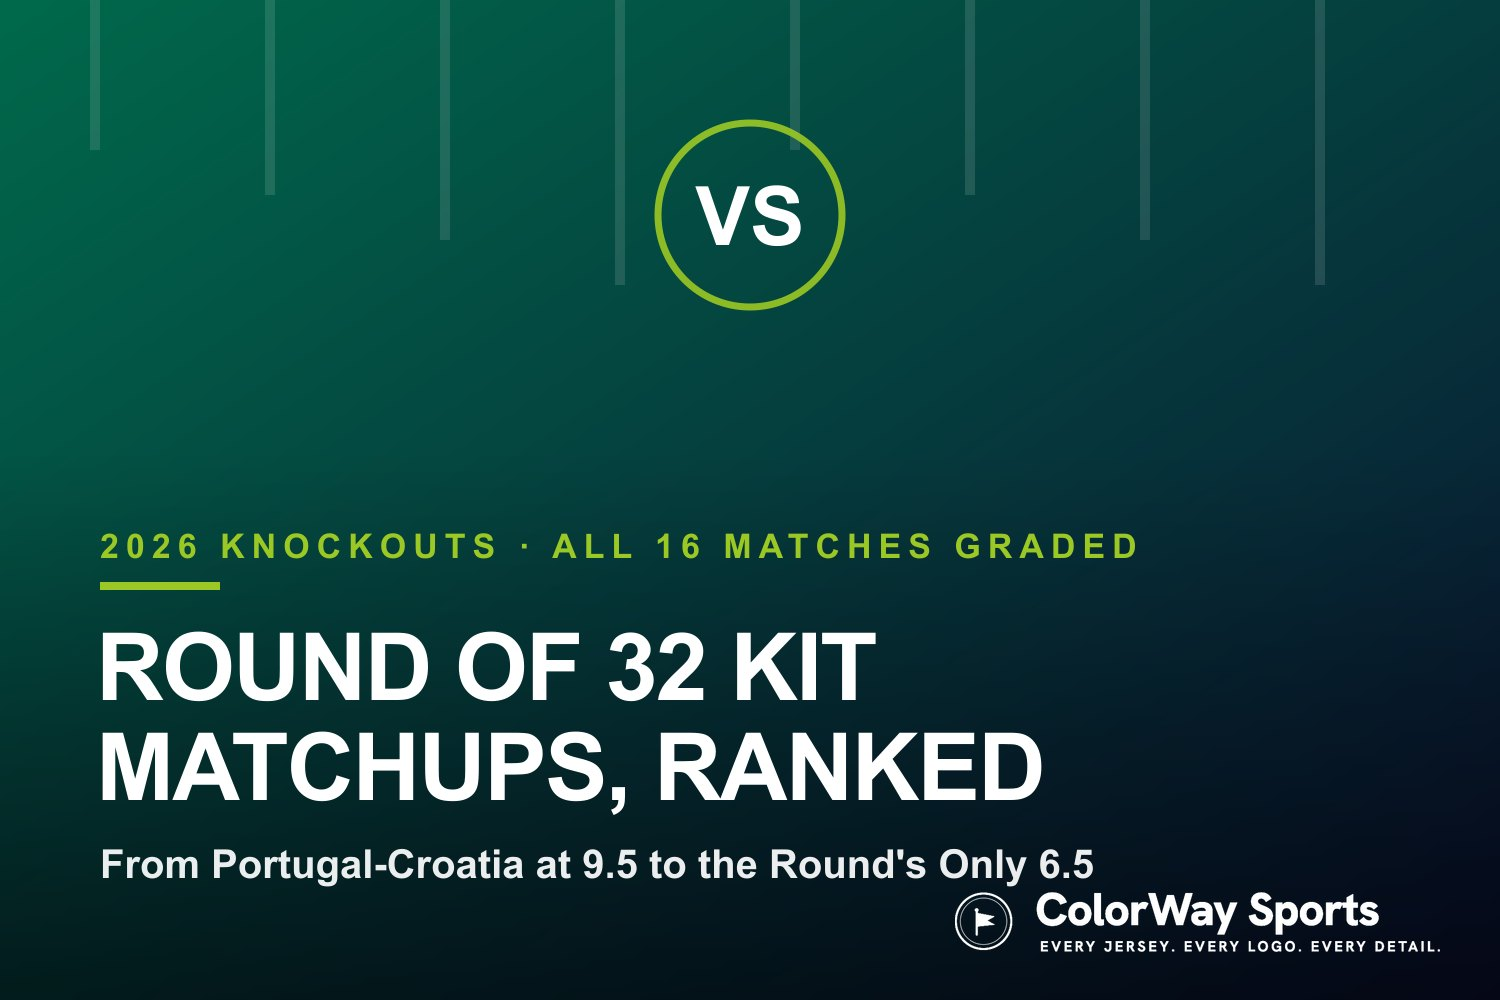
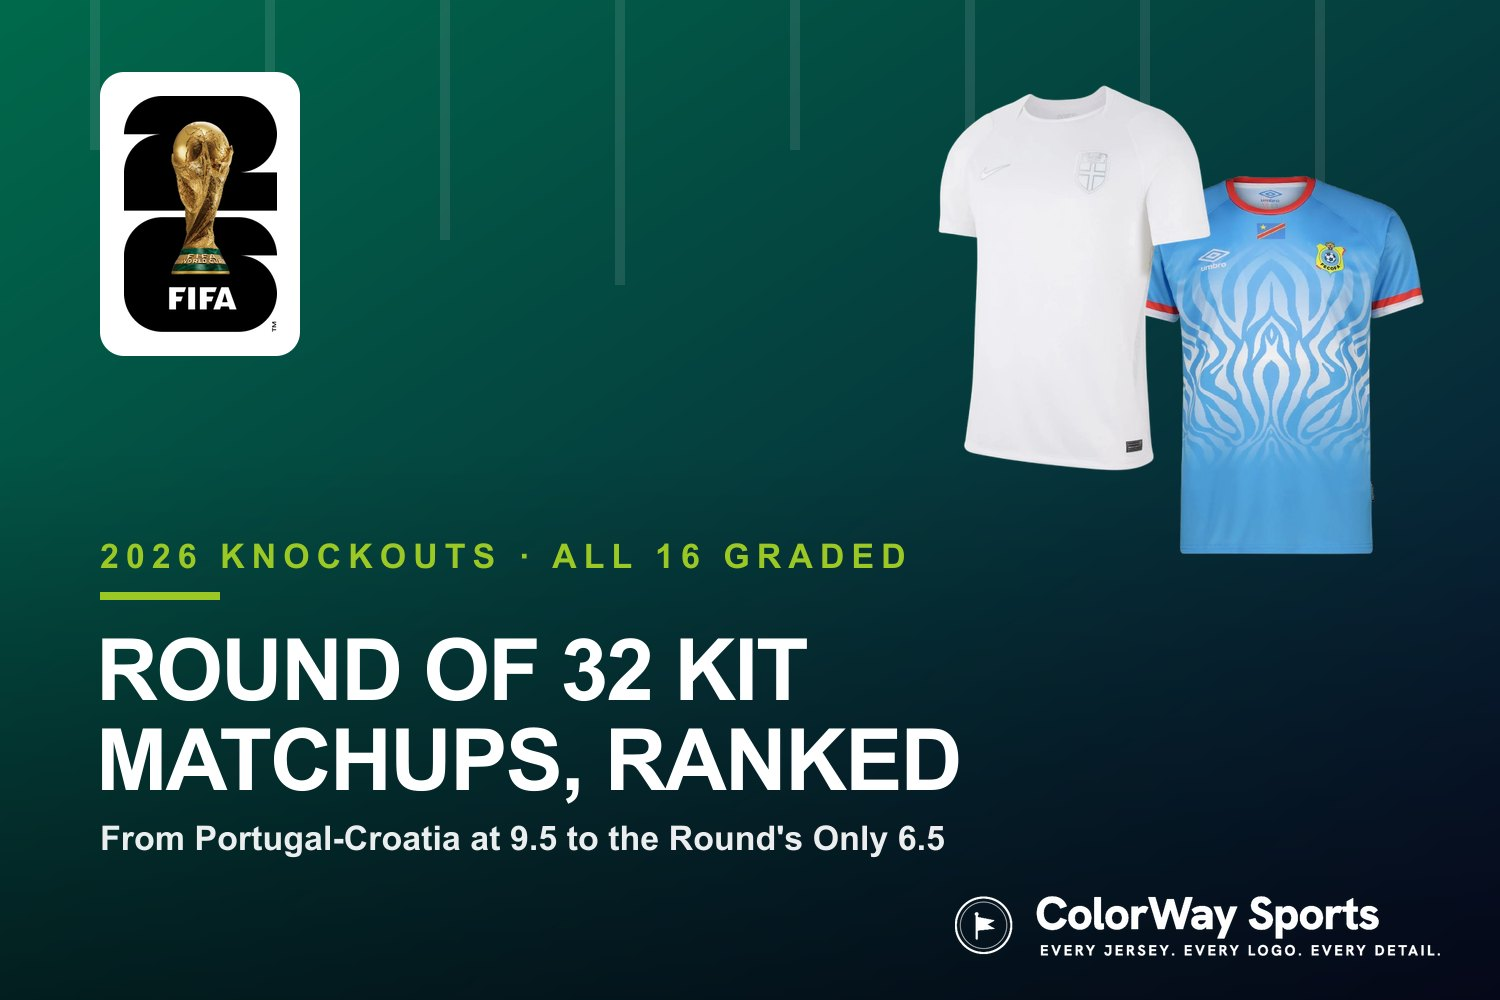
R32 ranked cover v2 (FIFA badge + transparent kits) + homepage featured band: tracker + R32 ranked only
Cover: WC26 mark in a white chip, Norway white alt + Congo DR sky blue
cutouts on the right, text block raised so the bottom breathes.
Homepage: bracket + fantasy draft cards come off the featured band
(underperforming there); both tools stay linked from the tracker and
post bodies. Tracker dek synced to R32-complete.

diff --git a/components/HomepageTrackers.tsx b/components/HomepageTrackers.tsx
@@ -18,31 +18,21 @@ const trackers: TrackerCard[] = [
     slug: "world-cup-2026-jersey-tracker",
     kicker: "Soccer · 2026 FIFA World Cup · 48 Teams, 104 Matches",
     title: "2026 FIFA World Cup Jersey & Uniform Tracker",
-    dek: "Every kit pairing of the tournament graded, from the opener through the July 19 Final at MetLife. Nine perfect 10s now lead the board — Norway's red vs France's mint is the newest — with Portugal's red vs Congo DR's blue, Ecuador's yellow vs Germany's navy, Colombia's yellow vs Congo DR's blue, South Africa's yellow vs Korea's red, and Sweden's yellow vs Japan's blue all at 9.5. The Round of 32 is underway — Portugal's green vs Croatia's blue leads the round at 9.5, and Australia's gold vs Egypt's red just landed an 8.5. Through 86 matches the average is 8.0/10, and the Round of 32 is complete. Every matchup graded.",
+    dek: "Every kit pairing of the tournament graded, from the opener through the July 19 Final at MetLife. Nine perfect 10s now lead the board — Norway's red vs France's mint is the newest — with Portugal's red vs Congo DR's blue, Ecuador's yellow vs Germany's navy, Colombia's yellow vs Congo DR's blue, South Africa's yellow vs Korea's red, and Sweden's yellow vs Japan's blue all at 9.5. The Round of 32 is complete — Portugal's green vs Croatia's blue led the knockout round at 9.5 — and the Round of 16 is up next. Through 86 matches the average is 8.0/10. Every matchup graded.",
     status: "Live · World Cup",
     grade: "A",
     image: "/images/posts/world-cup-2026-jersey-tracker/cover.jpg",
     centered: false,
   },
   {
-    href: "/world-cup-rooting-guide",
-    kicker: "Soccer · 2026 World Cup · Interactive",
-    title: "2026 World Cup Bracket Predictor: Fill Out Your Knockout Picks",
-    dek: "All 32 knockout teams are locked. Tap to pick winners from the Round of 32 to the Final, watch real results lock in as games finish, see who your team could play next, and share your bracket.",
-    status: "New · Interactive",
+    slug: "world-cup-round-of-32-kit-matchups-ranked",
+    kicker: "Soccer · 2026 FIFA World Cup · Round of 32",
+    title: "Every Round of 32 Kit Matchup, Ranked: All 16 Knockout Clashes Graded",
+    dek: "The knockout round is in the books and every jersey pairing is ranked. Portugal's ocean-wave green vs Croatia's checkerboard blue takes the round at 9.5, USA-Bosnia and France-Sweden land 9s, and the round averaged 8.1 — above the tournament-wide 8.0. The lesson from the board: the federations that reached for their boldest alternates won the round, and every red-vs-white pairing sank to the bottom third.",
+    status: "New · Rankings",
     grade: "A",
-    image: "/images/world-cup-rooting-guide-cover.jpg",
+    image: "/images/posts/wc-r32-kit-matchups-ranked-cover.jpg",
     centered: false,
-  },
-  {
-    href: "/world-cup-fantasy-draft",
-    kicker: "Soccer · 2026 World Cup · Interactive Game",
-    title: "2026 World Cup Fantasy Draft: Build Your Dream XI",
-    dek: "Get dealt five random stars for every spot in a 4-3-3 and draft your dream XI from every nation that made the Round of 32 — eliminated teams stay in the pool. Watch the deck shuffle, use your one re-roll wisely, then send your team to your friends.",
-    status: "New · Interactive",
-    grade: "A",
-    image: "/images/posts/world-cup-2026-fantasy-draft/cover.jpg",
-    centered: true,
   },
 ];
 

diff --git a/content/posts/world-cup-round-of-32-kit-matchups-ranked.md b/content/posts/world-cup-round-of-32-kit-matchups-ranked.md
@@ -11,7 +11,7 @@ league: "soccer"
 teams: []
 ---
 
-<img src="/images/posts/wc-r32-kit-matchups-ranked-cover.jpg" alt="2026 World Cup Round of 32 kit matchups ranked cover graphic with a VS badge and bracket bars, covering all 16 knockout jersey and uniform pairings graded by ColorWay Sports" style="width: 100%; border-radius: 10px;" />
+<img src="/images/posts/wc-r32-kit-matchups-ranked-cover.jpg" alt="2026 World Cup Round of 32 kit matchups ranked cover graphic with the FIFA World Cup 26 logo, Norway's white alternate jersey, and Congo DR's sky blue home jersey, covering all 16 knockout jersey and uniform pairings graded by ColorWay Sports" style="width: 100%; border-radius: 10px;" />
 
 The Round of 32 is complete, and all 16 knockout kit matchups are graded. We scored every jersey and uniform pairing of the round in our [live World Cup jersey tracker](/stories/world-cup-2026-jersey-tracker), and this is the full ranking, from the alternate-versus-alternate clash that led the round to the one matchup that fell flat. The round averaged 8.1 out of 10, a tick above the tournament-wide 8.0, with two federations reaching for their loudest change kits at exactly the right time.
 
